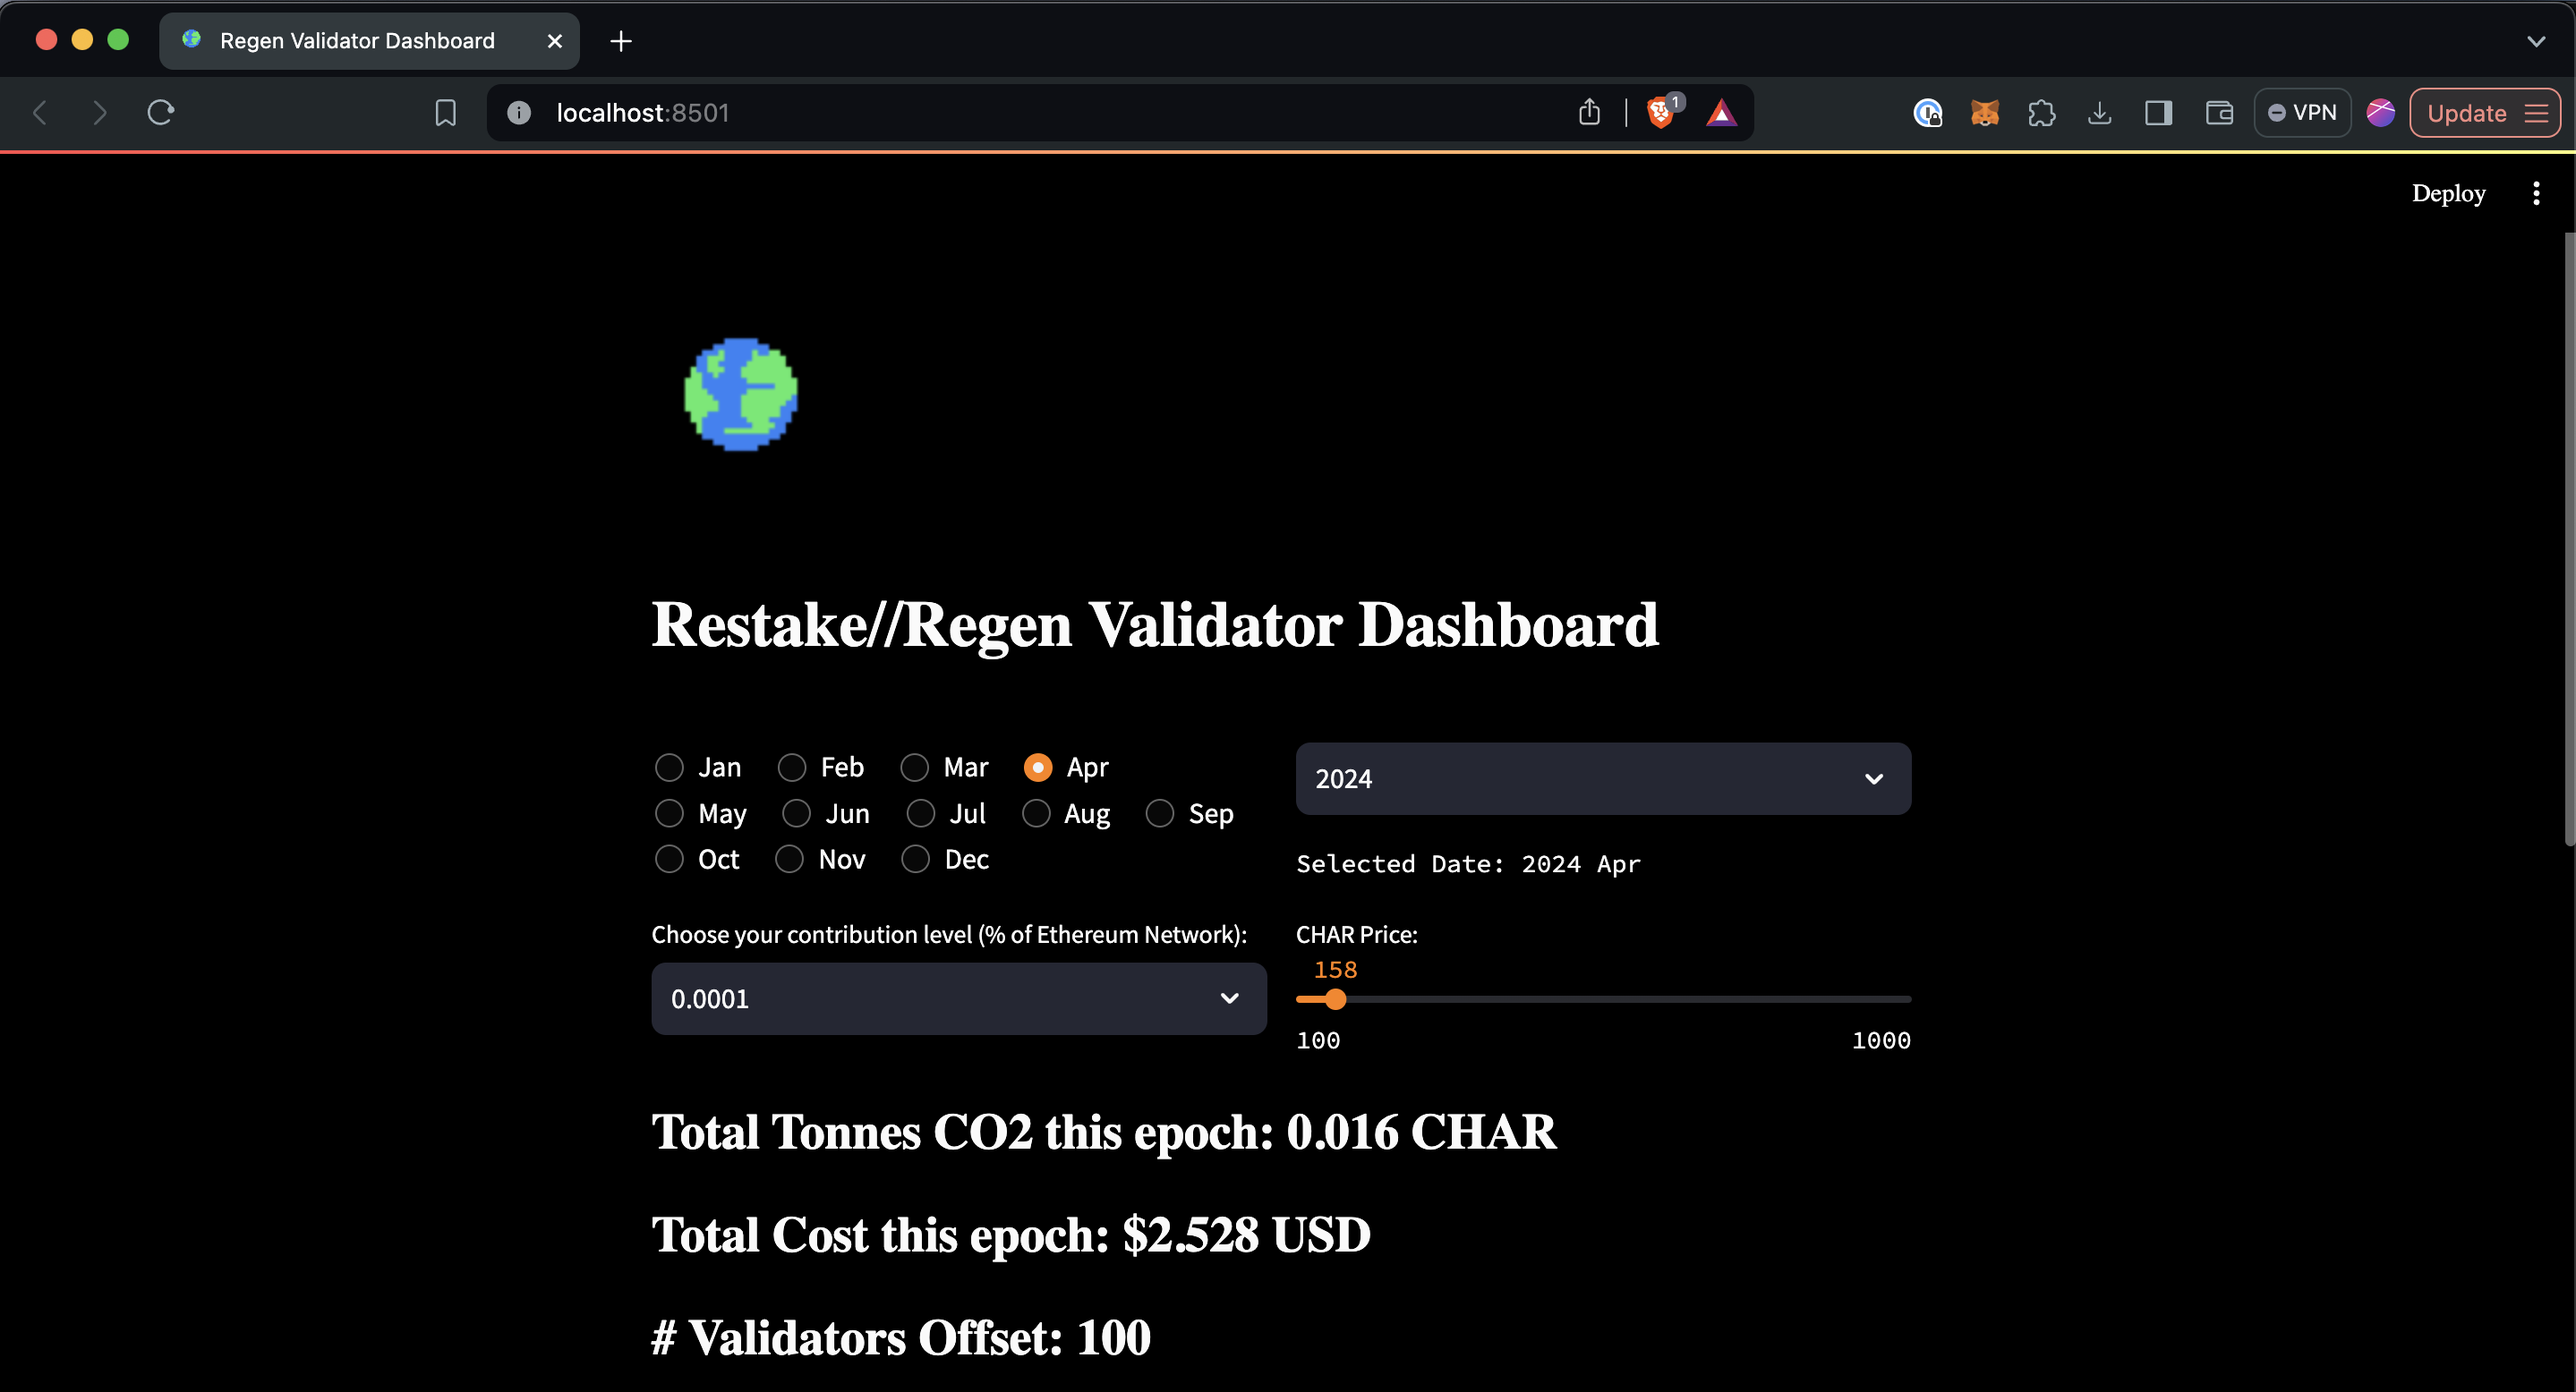
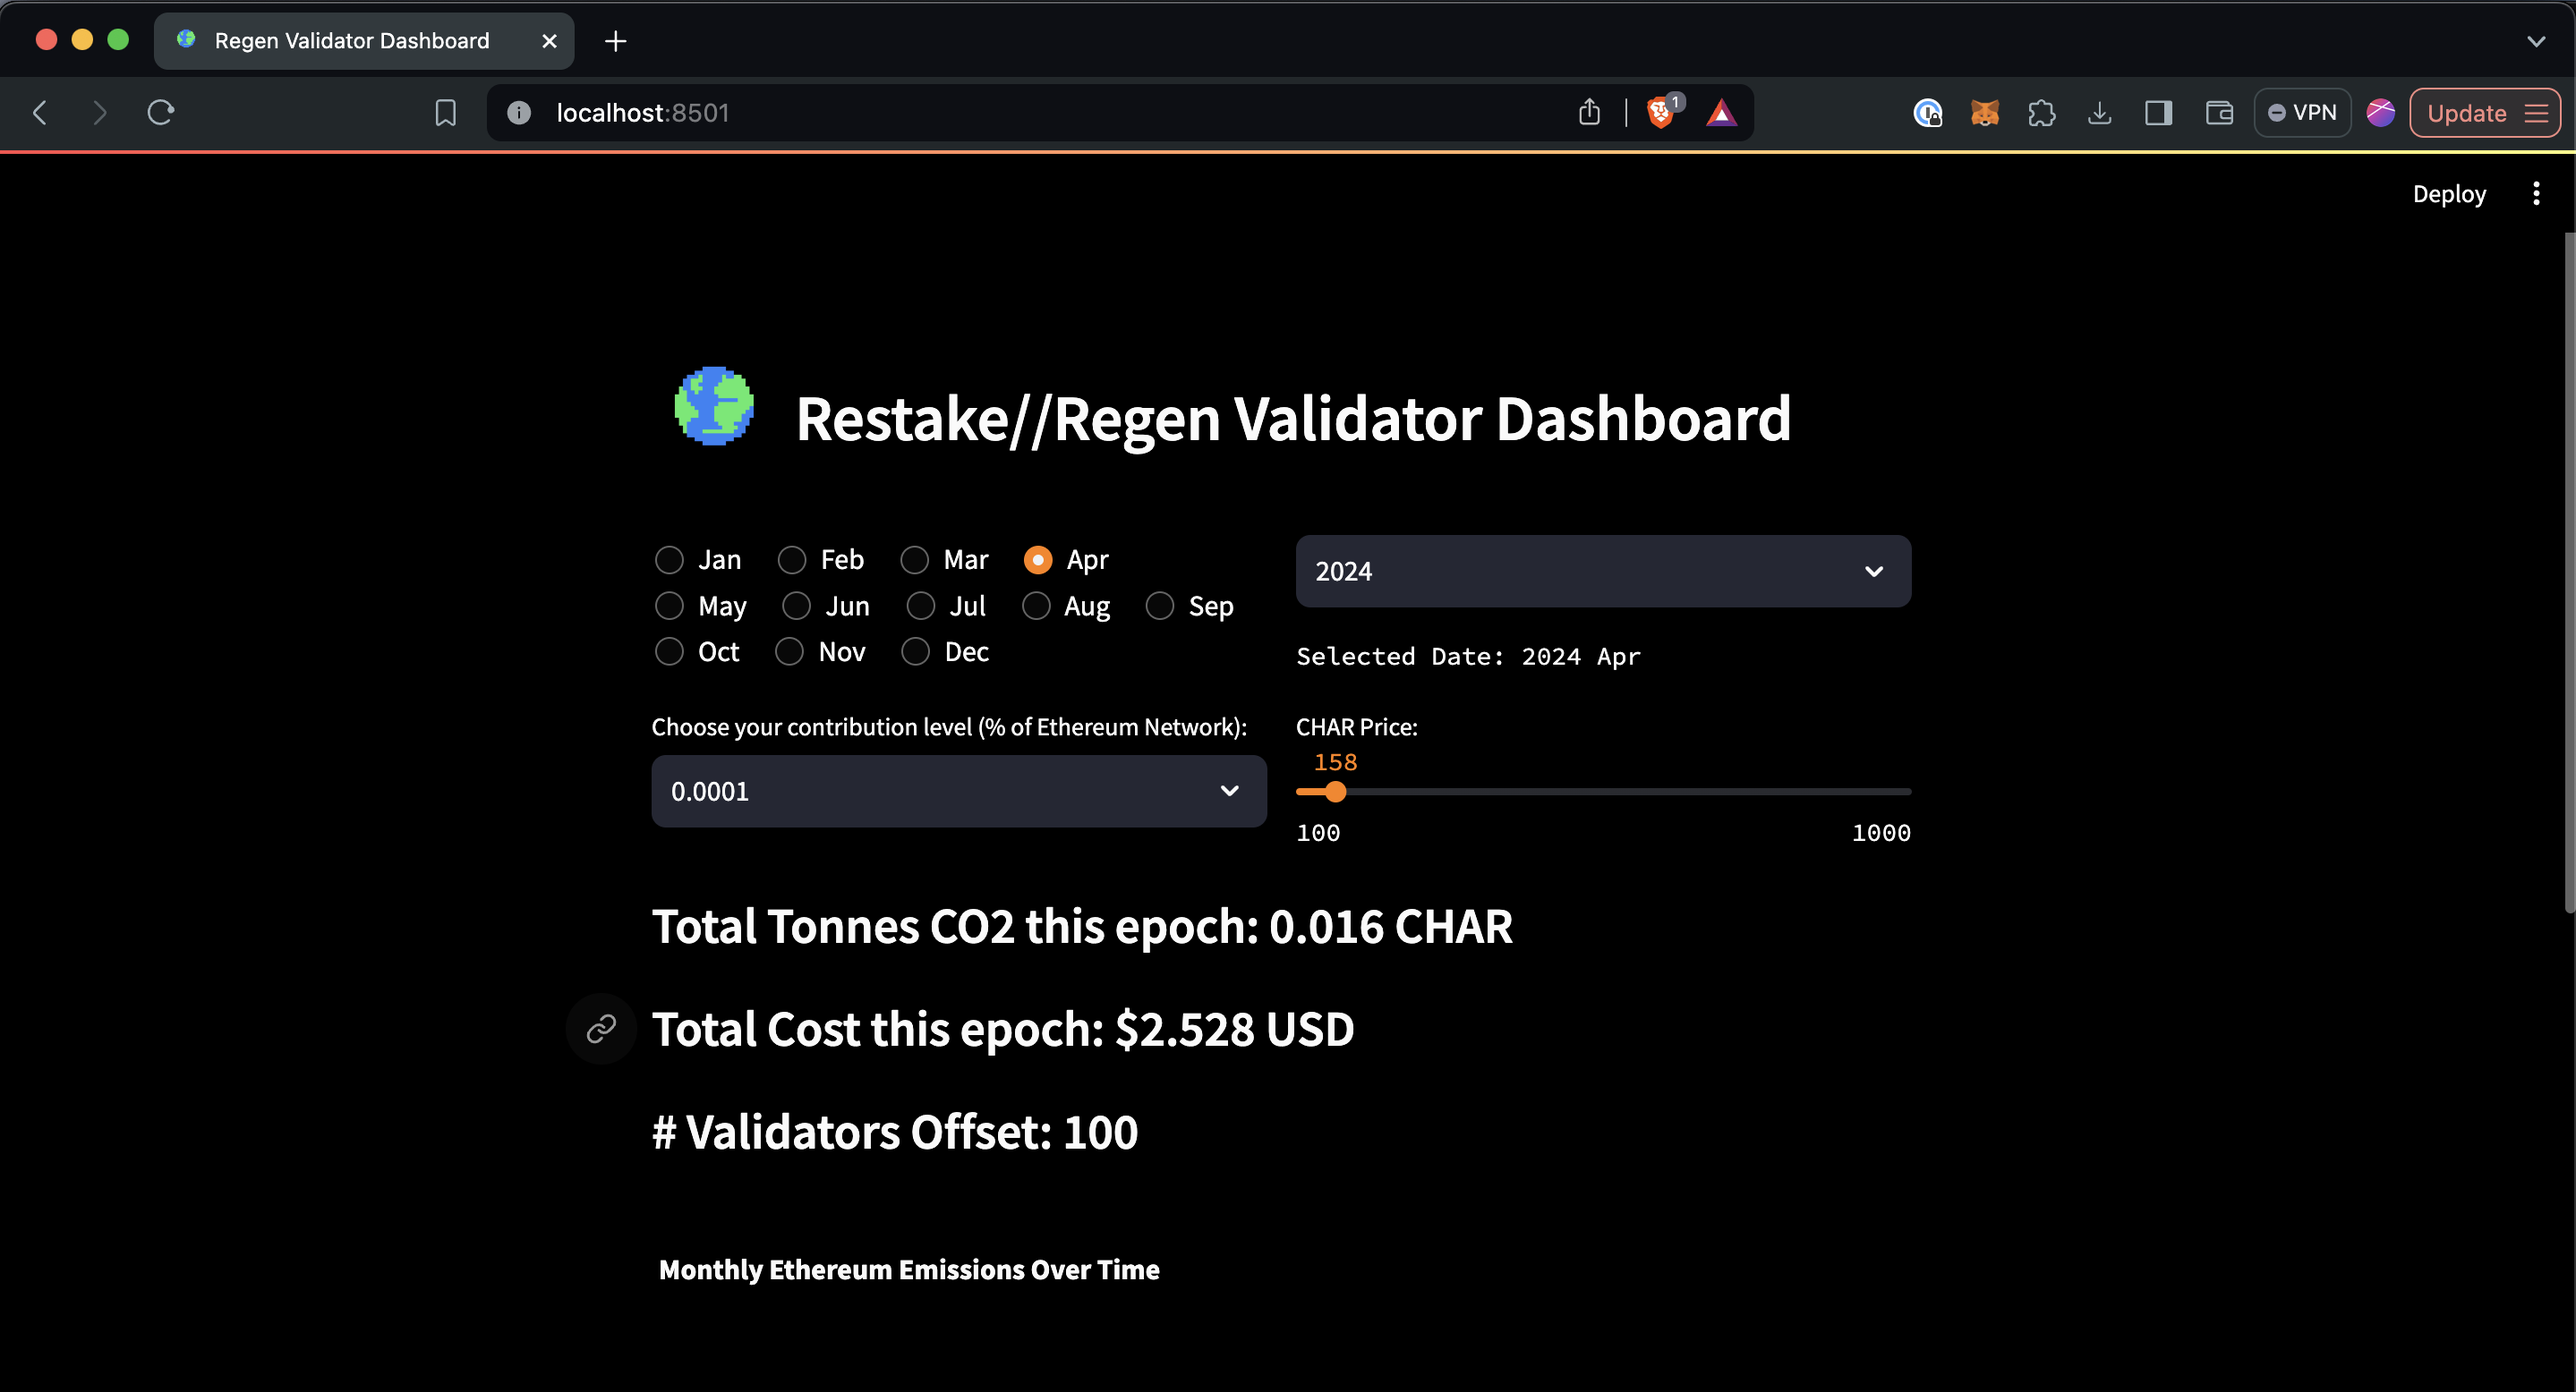
looking good

diff --git a/packages/streamlit_dashboard/validator_dashboard.py b/packages/streamlit_dashboard/validator_dashboard.py
@@ -59,7 +59,7 @@ st.set_page_config(
 )
 
 # Display the logo at the top of the page
-st.image("assets/noun_art/head-earth_noun_logo.png", width=100)
+# st.image("assets/noun_art/head-earth_noun_logo.png", width=100)
 # CSS to inject custom fonts
 font_url = "assets/noun_art/Figtree/static/Figtree-Light.ttf"
 css = f"""
@@ -78,8 +78,26 @@ html, body, h1, h2, h3, h4, h5, h6, .stButton>button {{
 
 # %% Start FE
 
+# CSS to hide the link icon
+hide_link_icon = """
+<style>
+    .markdown img[src*='https://raw.githubusercontent.com'] + div {
+        display: none;
+    }
+</style>
+"""
 
-st.write("## Restake//Regen Validator Dashboard")
+html_content = """
+<div style="display: flex; align-items: center;">
+    <img src="https://raw.githubusercontent.com/willemolding/Restake-Regen/main/assets/noun_art/head-earth_noun_logo.ico" alt="Noun Earth" style="width: 70px; height: 70px; margin-right: 10px;">
+    <h2 style="margin: 0;">Restake//Regen Validator Dashboard</h2>
+</div>
+"""
+
+# Inject CSS and the HTML content
+st.markdown(hide_link_icon, unsafe_allow_html=True)
+st.markdown(html_content, unsafe_allow_html=True)
+# st.write("## Restake//Regen Validator Dashboard")
 
 col1, col2 = st.columns(2)
 report_month_str = col1.radio("", month_abbr, index=this_month - 2, horizontal=True)
